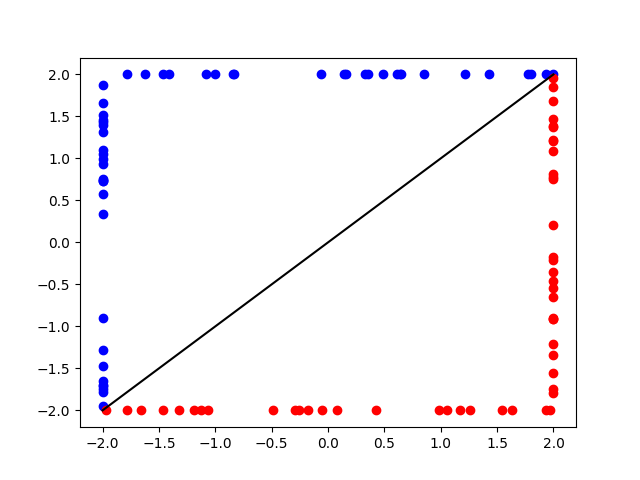
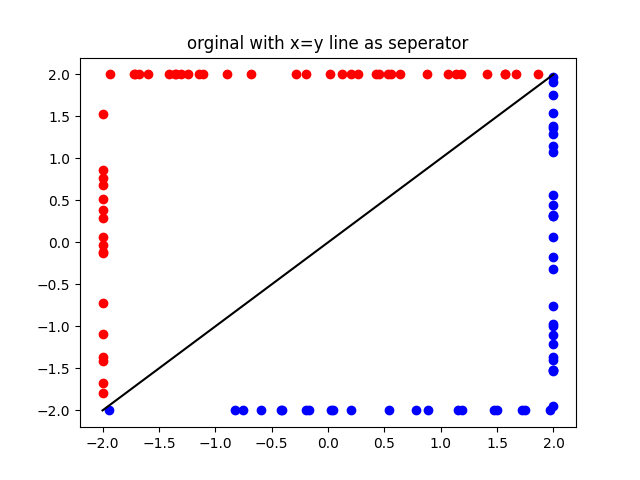
algorithm implemented

Changed region(s): [[0.1562, 0.0625, 0.875, 0.875]]

diff --git a/perceptron.py b/perceptron.py
@@ -1,14 +1,72 @@
 import numpy as np
 import matplotlib.pyplot as plt
 import pickle
+import random
 
 dbfile = open('dataset','rb')
 db = np.array(pickle.load(dbfile))
-
 w = np.array([0,0])
 b = 0
+count = 0
 
-for i in len(db):
+while True:
+    i = random.randint(0,len(db)-1)
     x = db[i,:2]
     lab = np.dot(w.T,x) + b
-    if db
+    if db[i,2] * lab <= 0:
+        w = w + x * db[i,2]
+        count = 0
+    else:
+        count = count + 1
+    
+    if count == 10000:
+        break
+
+print(w)
+X = db[:,:1]
+Y = db[:,1:2]
+label = db[:,2:3]
+
+X_pos = []
+Y_pos = []
+X_neg = []
+Y_neg = []
+
+for i in range(len(X)):
+    if label[i] == 1:
+        X_pos.append(X[i])
+        Y_pos.append(Y[i])
+    else:
+        X_neg.append(X[i])
+        Y_neg.append(Y[i])
+
+plt.figure()
+plt.plot(X_pos,Y_pos,'bo')
+plt.plot(X_neg,Y_neg,'ro')
+plt.plot([-2,2],[-2,2],'-k')
+plt.title('orginal with x=y line as seperator')
+
+w = w * (1/w[1])
+b = b / w[1]
+
+plt.figure()
+X = np.linspace(-2,2,100)
+Y = -X*w[0] - b
+
+plt.plot(X_pos,Y_pos,'bo')
+plt.plot(X_neg,Y_neg,'ro')
+plt.plot(X,Y,'-k')
+plt.title('seperator from perceptron ')
+
+plt.subplots_adjust(hspace=0.5,
+                    wspace=0.35)
+
+plt.figure()
+plt.plot(X_pos,Y_pos,'bo')
+plt.plot(X_neg,Y_neg,'ro')
+plt.plot([-2,2],[-2,2],'-c')
+plt.plot(X,Y,'-k')
+plt.title('both shown in one figure')
+
+
+plt.show()

diff --git a/data-gen.py b/data-gen.py
@@ -11,9 +11,10 @@ for i in range(100):
     
     point = []
     if sid == 0:
-        point = [2*(1-pos*2),l,2*pos-1]
+        point = [2*(1-pos*2),l,1-pos*2]
+    
     else:
-        point = [l,-2*(1-pos*2),2*pos-1]
+        point = [l,-2*(1-pos*2),1-pos*2]
     
     db.append(point)
 
